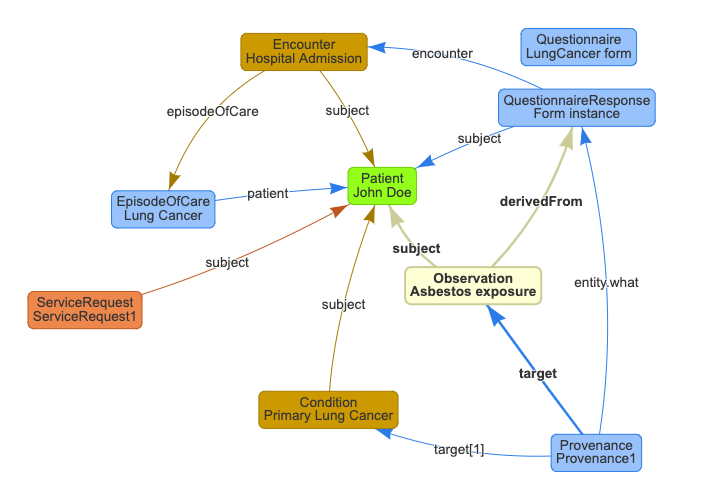
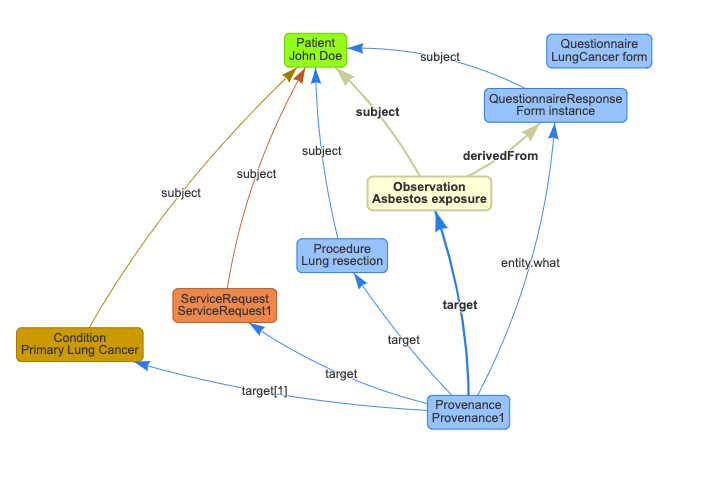
more docs

diff --git a/input/pagecontent/index.md b/input/pagecontent/index.md
@@ -19,17 +19,17 @@ The SDC IG names a number of actors, of which the following are used in this gui
 * [Form Receiver](http://build.fhir.org/ig/HL7/sdc/CapabilityStatement-sdc-form-receiver.html) - the application that receives forms for processing. In this IG, a custom operation is defined, as there are workflow components to the forms processing, so an Operation makes that clear.
 
 
-This guide uses the [Questionnaire](http://hl7.org/fhir/questionnaire.html) (Q) and [QuestionnaireResponse](http://hl7.org/fhir/questionnaireresponse.html) (QR) resources to define the form and represent a completed form respectively. In addition to the form content and structure, the Questionnaire resources also contains the markers to allow detail resources to be extracted during form submission. These are primarily [Observation](http://hl7.org/fhir/observation.html) resources, but any resource type is feasible.
+This guide uses the [Questionnaire](http://hl7.org/fhir/questionnaire.html) (Q) and [QuestionnaireResponse](http://hl7.org/fhir/questionnaireresponse.html) (QR) resources to define the form and represent a completed form respectively. In addition to the form content and structure, the Questionnaire resources also contains the markers to allow detail resources to be extracted during form submission. These are primarily [Observation](http://hl7.org/fhir/observation.html) resources, but any resource type is feasible such as [Procedure](http://hl7.org/fhir/procedure.html) and [ServiceRequest](http://hl7.org/fhir/servicerequest.html).
 
 A [custom operation](OperationDefinition-ProcessForm.html) is defined to perform the Form Receiver role, as the processing that is needed is more than resource creation. Specifically, there are workflow and provenance elements of the processing - creating a [ServiceRequest](http://hl7.org/fhir/servicerequest.html) and [Provenance](http://hl7.org/fhir/provenance.html) resource respectively. 
 
 This approach makes it much simpler for the application presenting the form to the user (the Form Filler role), making it easier to introduce new forms and following the FHIR philosophy of moving complexity to the server. Even if the Form Filler cannot consume the Q directly, they only need produce a single resource - the QuestionnaireResponse.
 
 Using the SDC approach over the alternative architecture of having the Form Filler create the bundle directly brings a number of advantages.
-* It is much easier on the client, as creating a bundle with all the needed resources to represent a form is not straightforward. Not all the elements in a form need to be in a discrete resource. 
+* It is much easier on the client, as creating a bundle with all the needed resources to represent a form is not straightforward. In addition, not all the elements in a form need to be in a discrete resource. 
 * Each new form type would require a complete re-design of the bundle contents, making the infrastructure less scalable from a design perspective. In the SDC approach, the design work (including the extracted FHIR information model) is represented in the Q.
 * The Questionnaire makes the form design explicit and computable, even if the Form Filler cannot utilize it directly
-* There are medico-legal aspects to a form completed by a clinician, making it important to be able to re-produce the form if needed, and to support corrections.
+* There are medico-legal aspects to a form completed by a clinician, making it important to be able to re-produce the form if needed, and to support corrections. This is what the QR provides.
 * The SDC IG has been designed over a number of years for this exact purpose. It makes sense to take advantage of this work.
 
 
@@ -38,13 +38,22 @@ A sample [QuestionnaireResponse](QuestionnaireResponse-QLungCancerInstance.html)
 
 A description of the process of creating a form is found [here](createform.html). This does not cover the Q authoring process
 
+> It is important to emphasise that the Form Filler does not have to read the Q directly and render a UI from that resource. It is
+quite feasible for the Form Filler to generate the form manually (using the Q as the technical requirements) and simply generate the appropriately structured QR on form completion. Obviously, this will be more time consuming than using the Q directly, but this may be necessary depending on the capabilities of the application.
+
+#### Resource extraction
+The SDC IG describes how any resource type can be extracted from the QR by the form filler. It describes 3 possible methods.
+
+* Observation extraction is the most straightforward (and common). The Q designer simply adds an extension to the item, and the Observation can be created from the information in the QR item
+* Definition based will create any resource. In this IG, likely candidates are Procedure, Condition and ServiceRequest
+* StructureMap based is also described, but won't be used in this IG.
 
 
 ### External ecosystem
 
 The CanShare application does not exist in a silo - rather it is part of an ecosystem, some of the components of which are shown below.
 
-<img style="width:500px; float:none" src="ecosystem.png"/>
+<img style="width:800px; float:none" src="ecosystem.png"/>
 
 Not all of these interfaces and services will be used in the first deliverable.
 

diff --git a/input/pagecontent/usecases.md b/input/pagecontent/usecases.md
@@ -1,14 +1,9 @@
 
-Describes the forms based input to the repository
-
-Compliant with the [Structured Data Capture (SDC)](https://build.fhir.org/ig/HL7/sdc/) Implementation Guide
-
-
 ### Use Cases
 
 #### Create a new form (EHR)
 
-1. The Form Filler selects the template (Q) 
+1. The Form Filler selects the template. This might be a Q or a custom form. 
 2. Any possible pre-pop occurs (defined in Q)
 3. The form is completed by the user. Parking of forms if Form Filler supports
 4. Completed data is sent as a QR to the Forms Receiver
@@ -22,7 +17,7 @@ Compliant with the [Structured Data Capture (SDC)](https://build.fhir.org/ig/HL7
 
 #### Query extracted resources (EHR)
 
-1. Use the supported FHIR queries to extract resources
+1. Use the supported FHIR queries to retrieve resources from the data server
 2. Display as per EHR requirements
 
 #### Determine provenance of extracted resources
@@ -36,14 +31,3 @@ Compliant with the [Structured Data Capture (SDC)](https://build.fhir.org/ig/HL7
 3. If item is intended to be extracted as a resource, add appropriate extensions to item + add code
 4. Save
 
-**Can also add Q directly to Forms Manager - eg create from FSH**
-
-### Key resources
-
-#### Questionnaire
-
-
-#### QuestionnaireResponse
-
-
-### Extracting resources

diff --git a/input/pagecontent/createform.md b/input/pagecontent/createform.md
@@ -1,7 +1,11 @@
 
+### Creating a form
+This page lists the process for creating and editing a form
+
+
 ### FHIR resources
 
-The following graph shows the resources that represent a completed form on the FHIR server
+The following graph shows an example of the resources that represent a completed form on the FHIR server
 
 <img style="width:800px; float:none" src="fhir-resources.png"/>
 
